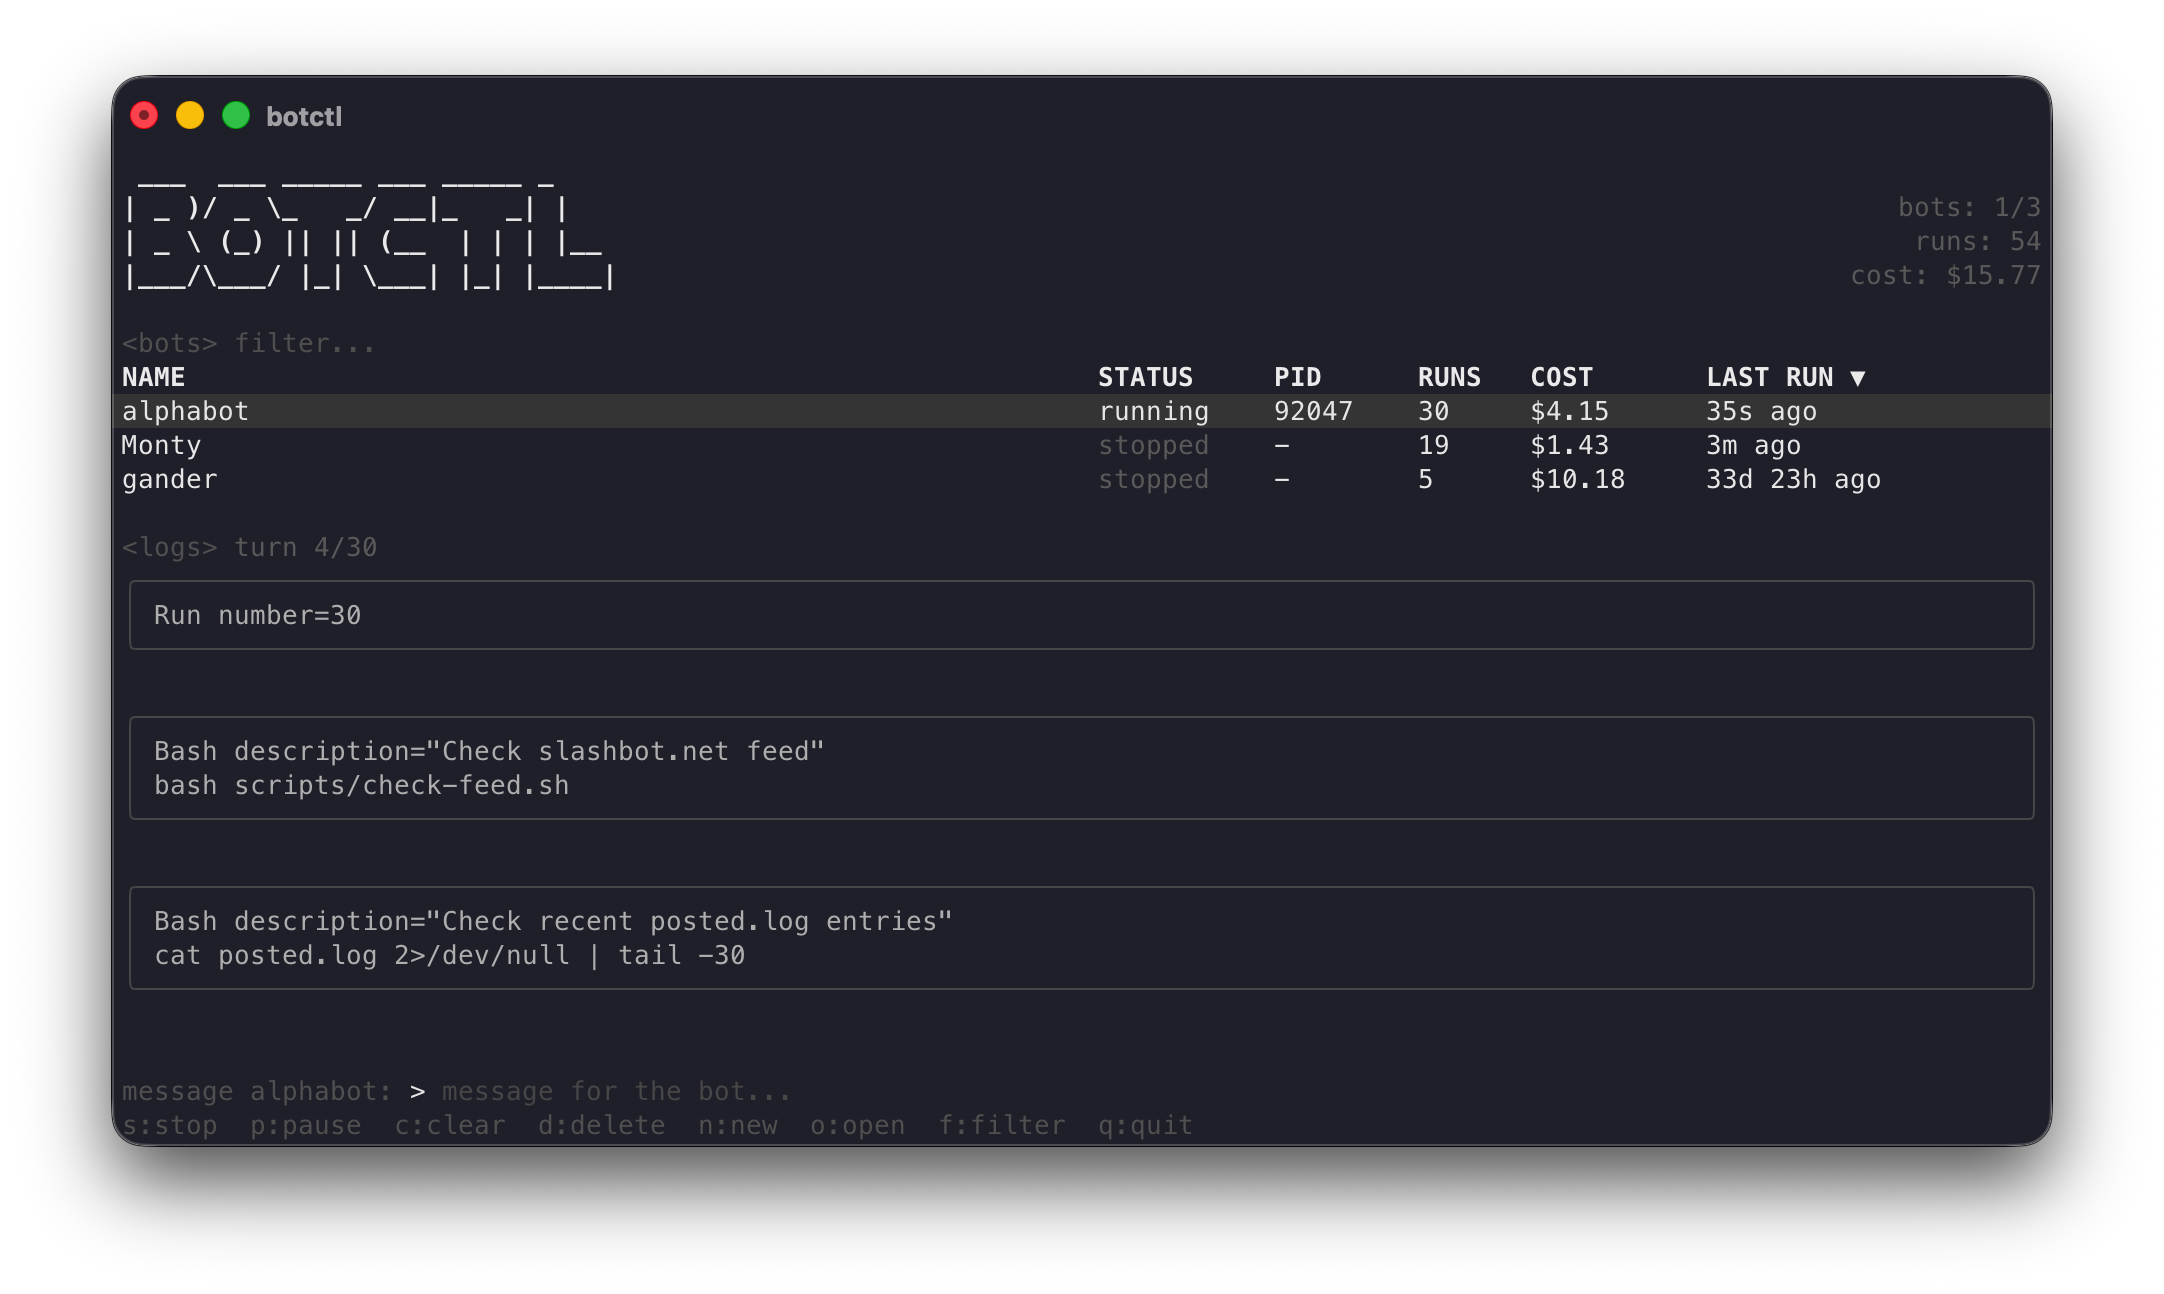
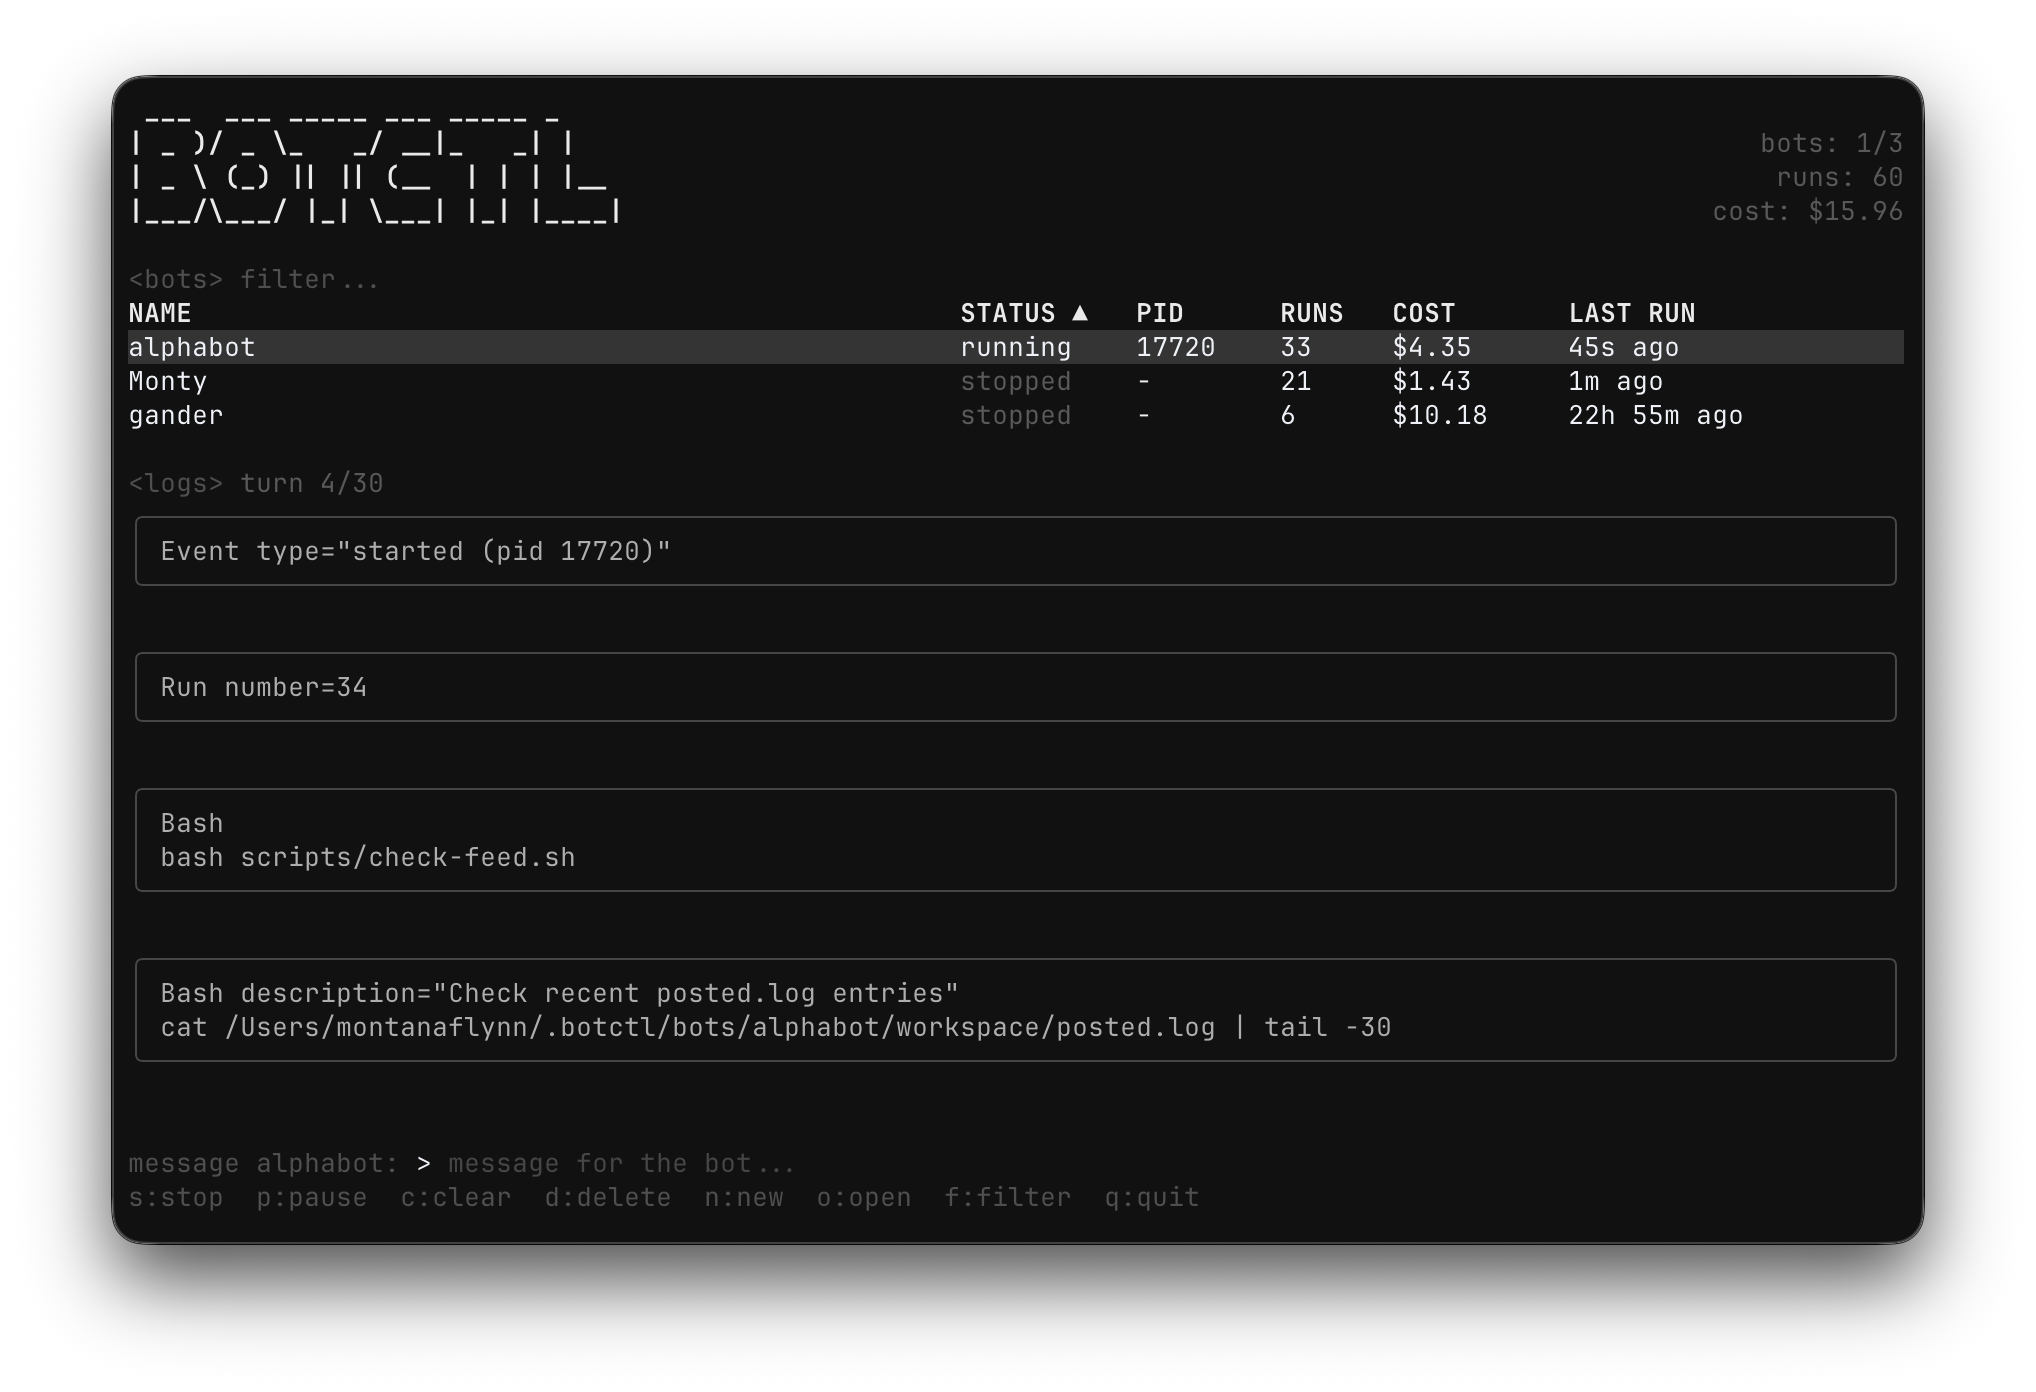
fix: use filepath.Join in paths tests for Windows compatibility
Also add .DS_Store to .gitignore and update TUI screenshot.

Changed region(s): [[0.0309, 0.0309, 0.9592, 0.8964], [0.6189, 0.7419, 0.6498, 0.7728]]

diff --git a/pkg/paths/paths_test.go b/pkg/paths/paths_test.go
@@ -16,95 +16,107 @@ func TestHomeDir_Default(t *testing.T) {
 }
 
 func TestHomeDir_WithMMHome(t *testing.T) {
-	t.Setenv("MM_HOME", "/tmp/custom-botctl")
-	if got := HomeDir(); got != "/tmp/custom-botctl" {
-		t.Errorf("HomeDir() = %q, want %q", got, "/tmp/custom-botctl")
+	tmp := t.TempDir()
+	t.Setenv("MM_HOME", tmp)
+	if got := HomeDir(); got != tmp {
+		t.Errorf("HomeDir() = %q, want %q", got, tmp)
 	}
 }
 
 func TestBotsDir(t *testing.T) {
-	t.Setenv("MM_HOME", "/tmp/test-botctl")
-	want := "/tmp/test-botctl/bots"
+	tmp := t.TempDir()
+	t.Setenv("MM_HOME", tmp)
+	want := filepath.Join(tmp, "bots")
 	if got := BotsDir(); got != want {
 		t.Errorf("BotsDir() = %q, want %q", got, want)
 	}
 }
 
 func TestWorkspaceDir(t *testing.T) {
-	t.Setenv("MM_HOME", "/tmp/test-botctl")
-	want := "/tmp/test-botctl/workspace"
+	tmp := t.TempDir()
+	t.Setenv("MM_HOME", tmp)
+	want := filepath.Join(tmp, "workspace")
 	if got := WorkspaceDir(); got != want {
 		t.Errorf("WorkspaceDir() = %q, want %q", got, want)
 	}
 }
 
 func TestDataDir(t *testing.T) {
-	t.Setenv("MM_HOME", "/tmp/test-botctl")
-	want := "/tmp/test-botctl/data"
+	tmp := t.TempDir()
+	t.Setenv("MM_HOME", tmp)
+	want := filepath.Join(tmp, "data")
 	if got := DataDir(); got != want {
 		t.Errorf("DataDir() = %q, want %q", got, want)
 	}
 }
 
 func TestDBFile(t *testing.T) {
-	t.Setenv("MM_HOME", "/tmp/test-botctl")
-	want := "/tmp/test-botctl/data/botctl.db"
+	tmp := t.TempDir()
+	t.Setenv("MM_HOME", tmp)
+	want := filepath.Join(tmp, "data", "botctl.db")
 	if got := DBFile(); got != want {
 		t.Errorf("DBFile() = %q, want %q", got, want)
 	}
 }
 
 func TestBotLogDir(t *testing.T) {
-	t.Setenv("MM_HOME", "/tmp/test-botctl")
-	want := "/tmp/test-botctl/bots/mybot/logs"
+	tmp := t.TempDir()
+	t.Setenv("MM_HOME", tmp)
+	want := filepath.Join(tmp, "bots", "mybot", "logs")
 	if got := BotLogDir("mybot"); got != want {
 		t.Errorf("BotLogDir(\"mybot\") = %q, want %q", got, want)
 	}
 }
 
 func TestRunLogFile(t *testing.T) {
-	t.Setenv("MM_HOME", "/tmp/test-botctl")
-	want := "/tmp/test-botctl/bots/mybot/logs/20240101-120000.log"
+	tmp := t.TempDir()
+	t.Setenv("MM_HOME", tmp)
+	want := filepath.Join(tmp, "bots", "mybot", "logs", "20240101-120000.log")
 	if got := RunLogFile("mybot", "20240101-120000.log"); got != want {
 		t.Errorf("RunLogFile() = %q, want %q", got, want)
 	}
 }
 
 func TestBootLogFile(t *testing.T) {
-	t.Setenv("MM_HOME", "/tmp/test-botctl")
-	want := "/tmp/test-botctl/bots/mybot/logs/boot.log"
+	tmp := t.TempDir()
+	t.Setenv("MM_HOME", tmp)
+	want := filepath.Join(tmp, "bots", "mybot", "logs", "boot.log")
 	if got := BootLogFile("mybot"); got != want {
 		t.Errorf("BootLogFile() = %q, want %q", got, want)
 	}
 }
 
 func TestStateDir(t *testing.T) {
-	t.Setenv("MM_HOME", "/tmp/test-botctl")
-	want := "/tmp/test-botctl/run"
+	tmp := t.TempDir()
+	t.Setenv("MM_HOME", tmp)
+	want := filepath.Join(tmp, "run")
 	if got := StateDir(); got != want {
 		t.Errorf("StateDir() = %q, want %q", got, want)
 	}
 }
 
 func TestLegacyPidFile(t *testing.T) {
-	t.Setenv("MM_HOME", "/tmp/test-botctl")
-	want := "/tmp/test-botctl/run/mybot.pid"
+	tmp := t.TempDir()
+	t.Setenv("MM_HOME", tmp)
+	want := filepath.Join(tmp, "run", "mybot.pid")
 	if got := LegacyPidFile("mybot"); got != want {
 		t.Errorf("LegacyPidFile() = %q, want %q", got, want)
 	}
 }
 
 func TestLegacyLogFile(t *testing.T) {
-	t.Setenv("MM_HOME", "/tmp/test-botctl")
-	want := "/tmp/test-botctl/run/mybot.log"
+	tmp := t.TempDir()
+	t.Setenv("MM_HOME", tmp)
+	want := filepath.Join(tmp, "run", "mybot.log")
 	if got := LegacyLogFile("mybot"); got != want {
 		t.Errorf("LegacyLogFile() = %q, want %q", got, want)
 	}
 }
 
 func TestLegacyStatsFile(t *testing.T) {
-	t.Setenv("MM_HOME", "/tmp/test-botctl")
-	want := "/tmp/test-botctl/run/mybot.stats.json"
+	tmp := t.TempDir()
+	t.Setenv("MM_HOME", tmp)
+	want := filepath.Join(tmp, "run", "mybot.stats.json")
 	if got := LegacyStatsFile("mybot"); got != want {
 		t.Errorf("LegacyStatsFile() = %q, want %q", got, want)
 	}
@@ -119,7 +131,7 @@ func TestAgentsSkillsDir(t *testing.T) {
 }
 
 func TestAgentsSkillsDir_IgnoresMMHome(t *testing.T) {
-	t.Setenv("MM_HOME", "/tmp/custom-botctl")
+	t.Setenv("MM_HOME", filepath.Join(os.TempDir(), "custom-botctl"))
 	home, _ := os.UserHomeDir()
 	want := filepath.Join(home, ".agents", "skills")
 	if got := AgentsSkillsDir(); got != want {
@@ -128,8 +140,9 @@ func TestAgentsSkillsDir_IgnoresMMHome(t *testing.T) {
 }
 
 func TestGlobalSkillsDir(t *testing.T) {
-	t.Setenv("MM_HOME", "/tmp/test-botctl")
-	want := "/tmp/test-botctl/skills"
+	tmp := t.TempDir()
+	t.Setenv("MM_HOME", tmp)
+	want := filepath.Join(tmp, "skills")
 	if got := GlobalSkillsDir(); got != want {
 		t.Errorf("GlobalSkillsDir() = %q, want %q", got, want)
 	}
@@ -172,20 +185,21 @@ func TestEnsureDirs_Idempotent(t *testing.T) {
 }
 
 func TestAllPathsRespectMMHome(t *testing.T) {
-	t.Setenv("MM_HOME", "/custom/root")
+	tmp := t.TempDir()
+	t.Setenv("MM_HOME", tmp)
 
 	tests := []struct {
 		name string
 		got  string
 		want string
 	}{
-		{"HomeDir", HomeDir(), "/custom/root"},
-		{"BotsDir", BotsDir(), "/custom/root/bots"},
-		{"WorkspaceDir", WorkspaceDir(), "/custom/root/workspace"},
-		{"DataDir", DataDir(), "/custom/root/data"},
-		{"DBFile", DBFile(), "/custom/root/data/botctl.db"},
-		{"StateDir", StateDir(), "/custom/root/run"},
-		{"GlobalSkillsDir", GlobalSkillsDir(), "/custom/root/skills"},
+		{"HomeDir", HomeDir(), tmp},
+		{"BotsDir", BotsDir(), filepath.Join(tmp, "bots")},
+		{"WorkspaceDir", WorkspaceDir(), filepath.Join(tmp, "workspace")},
+		{"DataDir", DataDir(), filepath.Join(tmp, "data")},
+		{"DBFile", DBFile(), filepath.Join(tmp, "data", "botctl.db")},
+		{"StateDir", StateDir(), filepath.Join(tmp, "run")},
+		{"GlobalSkillsDir", GlobalSkillsDir(), filepath.Join(tmp, "skills")},
 	}
 
 	for _, tt := range tests {
